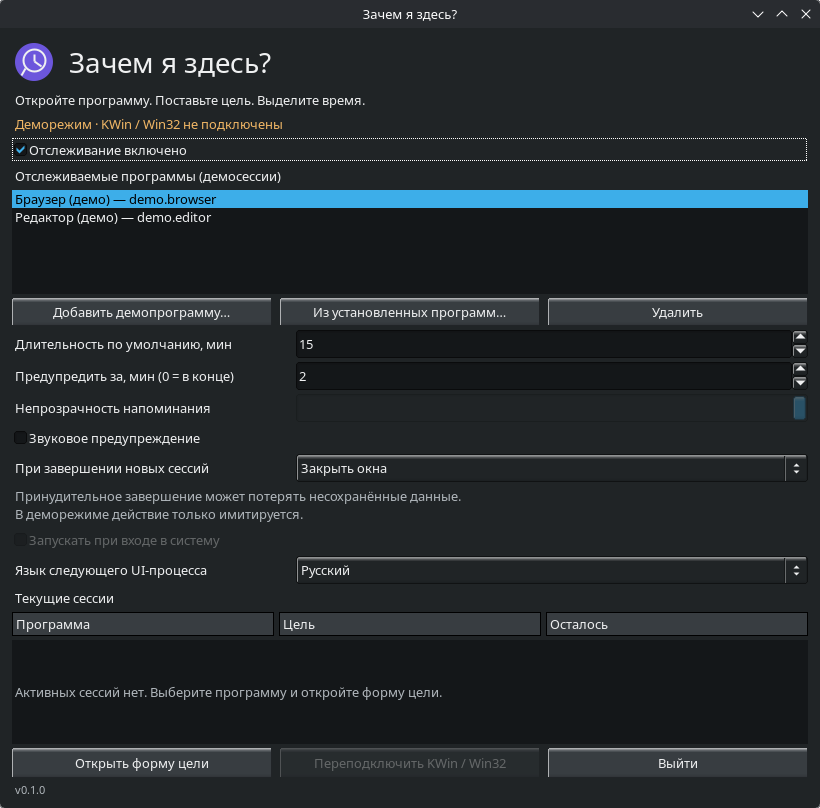
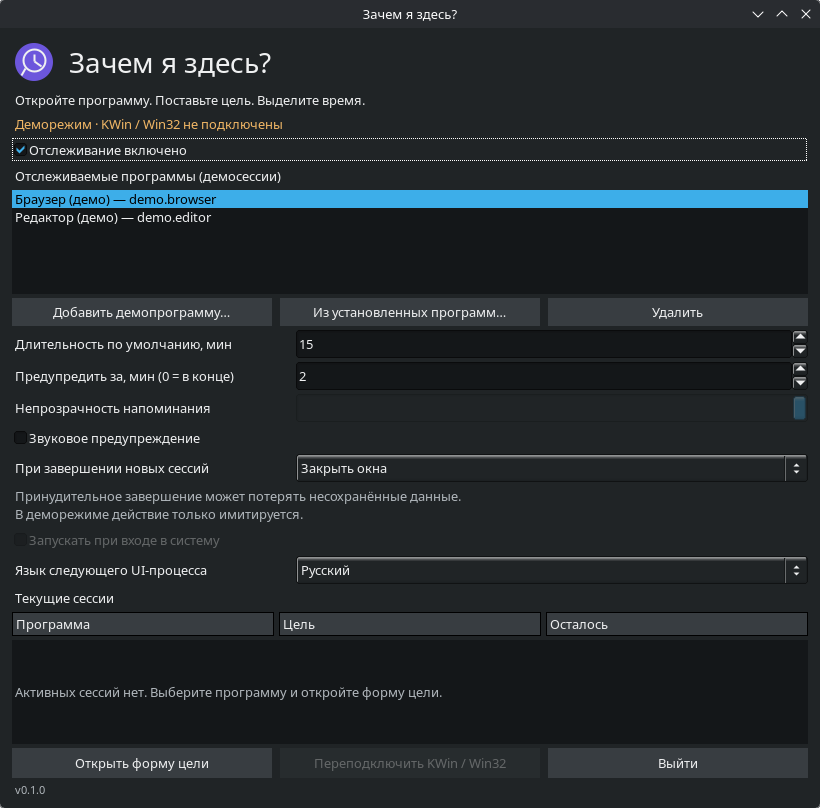
feat: flatten button frames in UI screenshots

Changed region(s): [[0.6402, 0.3713, 0.6707, 0.4022]]

diff --git a/crates/ui/src/theme.rs b/crates/ui/src/theme.rs
@@ -32,7 +32,8 @@ pub fn button(x: i32, y: i32, w: i32, h: i32, value: &str) -> Button {
 	let mut button = Button::new(x, y, w, h, value);
 	button.set_color(Color::from_hex(0x383d41));
 	button.set_selection_color(ACCENT);
-	button.set_frame(FrameType::ThinUpBox);
+	button.set_frame(FrameType::FlatBox);
+	button.set_down_frame(FrameType::FlatBox);
 	button.set_label_size(13);
 	button
 }
